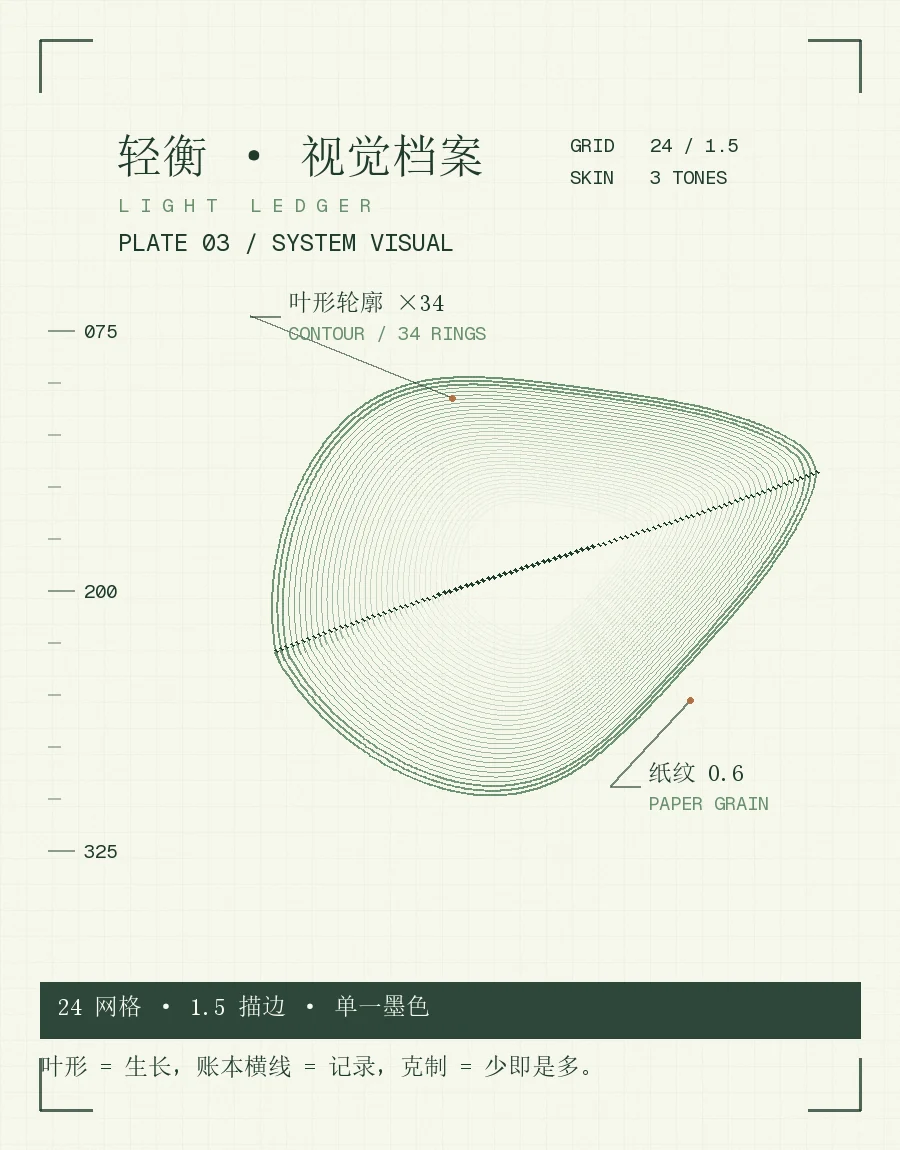
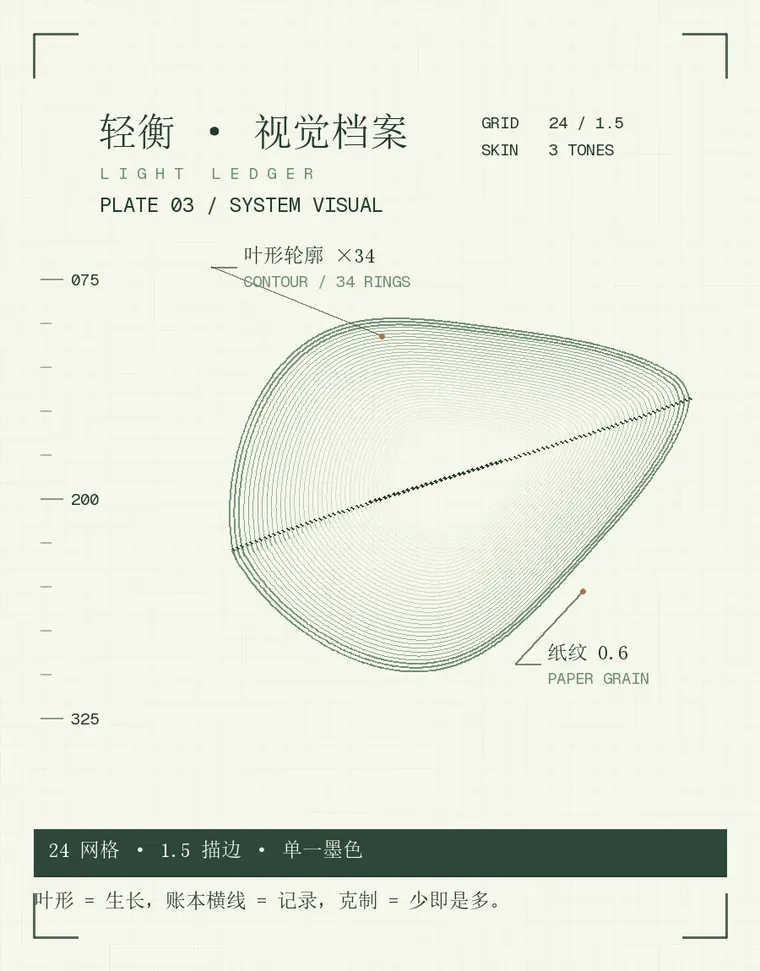
轻衡 1.2.95：压缩两张品牌插图（APK 597 KB）+ 补 RUNLOG r70

Changed region(s): [[0.1816, 0.1236, 0.2118, 0.1545]]

diff --git a/app/src/main/assets/app.js b/app/src/main/assets/app.js
@@ -4920,7 +4920,7 @@ function metricIcon(label) {
     panel.addEventListener('toggle', () => {if (panel.open) showContextPreview(kind, $('#' + nodeId), activeDate).catch(() => {});});
   }
   // ---- Hub entries and sub-page navigation -------------------------------------------------------
-  const APP_VERSION = '1.2.94';
+  const APP_VERSION = '1.2.95';
   document.addEventListener('click', event => {
     const entry = event.target.closest('[data-subpage-open]');
     if (entry) {openSubpage(entry.dataset.subpageOpen); return;}

diff --git a/app/src/fragments/70-rest.fragment.js b/app/src/fragments/70-rest.fragment.js
@@ -152,7 +152,7 @@
     panel.addEventListener('toggle', () => {if (panel.open) showContextPreview(kind, $('#' + nodeId), activeDate).catch(() => {});});
   }
   // ---- Hub entries and sub-page navigation -------------------------------------------------------
-  const APP_VERSION = '1.2.94';
+  const APP_VERSION = '1.2.95';
   document.addEventListener('click', event => {
     const entry = event.target.closest('[data-subpage-open]');
     if (entry) {openSubpage(entry.dataset.subpageOpen); return;}

diff --git a/docs/design/RUNLOG-codex.md b/docs/design/RUNLOG-codex.md
@@ -412,3 +412,12 @@
   - 规格写进 `20-audit-visual.md`，断言与登记同步进 `03-global-changes §5.1`。
 - 验收：`test-all` 56/56；`aesthetic-audit` OK；`dev-loop` 1.2.86/286 安装 + smoke 无 JS 错误；截图 `build/v286-hub.png`、`build/v286-metrics.png`。
 - 源码提交 `0a01afe`；回滚：`git revert 0a01afe`。
+
+## r70 · 2026-11-04 · 1.2.87 → 1.2.95（品牌插画重做 + 更多设置位）
+- 判位置：先试「整页半透明水印」——在「更多设置」用 `#subpage-more::before` 铺底（v287–v291 调了三版透明度/位置）。结果两条：①纸感底本身很浅，水印要开到 40% 才看得见，一开就压到两行设置的文字区；②插画自带的标题字透出来，和页面标题打架。于是放弃水印路线。
+- 定方案：改成「技术档案板」——在「更多设置」标题下方放一张完整的插画卡片（3:2 竖版），下面才是 数据管理 / 关于轻衡。用户要求「表现效果佳优先」，卡片化比水印更能展示，也不压正文。
+- 美术参考《明日方舟：终末地》的档案语汇，叠到轻衡的纸墨上：5mm 细网格、四角括号、左侧 075/200/325 刻度尺（唯一信号色锈橙只用在刻度端点）、两处引线标注（叶形轮廓 ×34 / 纸纹 0.6）、底部实心墨条 + 反白小字。保证「有信息量」但不抢主线。
+- 两次返工：①1400×930 的大图缩到 380dp 后标注只有 3–4px，重做成 900×1150 竖版并把字号提到 24–30px；②刻度尺与标题重叠，把刻度起点下移到 y=330，只留 075/200/325 三个数字。
+- 关于页同步换成 `brand-field.webp`（无文字版，做背景更干净）；两张图都压过：`brand-field` 25 KB、`brand-plate` 47 KB，APK 从 662 KB 回到 **597 KB**。
+- 验收：`test-all` 56/56；`dev-loop` 1.2.87–1.2.95 多次安装 + smoke 无 JS 错误；截图 `build/v293-more.png`、`build/v294-more.png`（最终版：档案板 + 两行设置首屏可见）。
+- 源码提交 `e686e8b`；回滚：`git revert e686e8b`。
